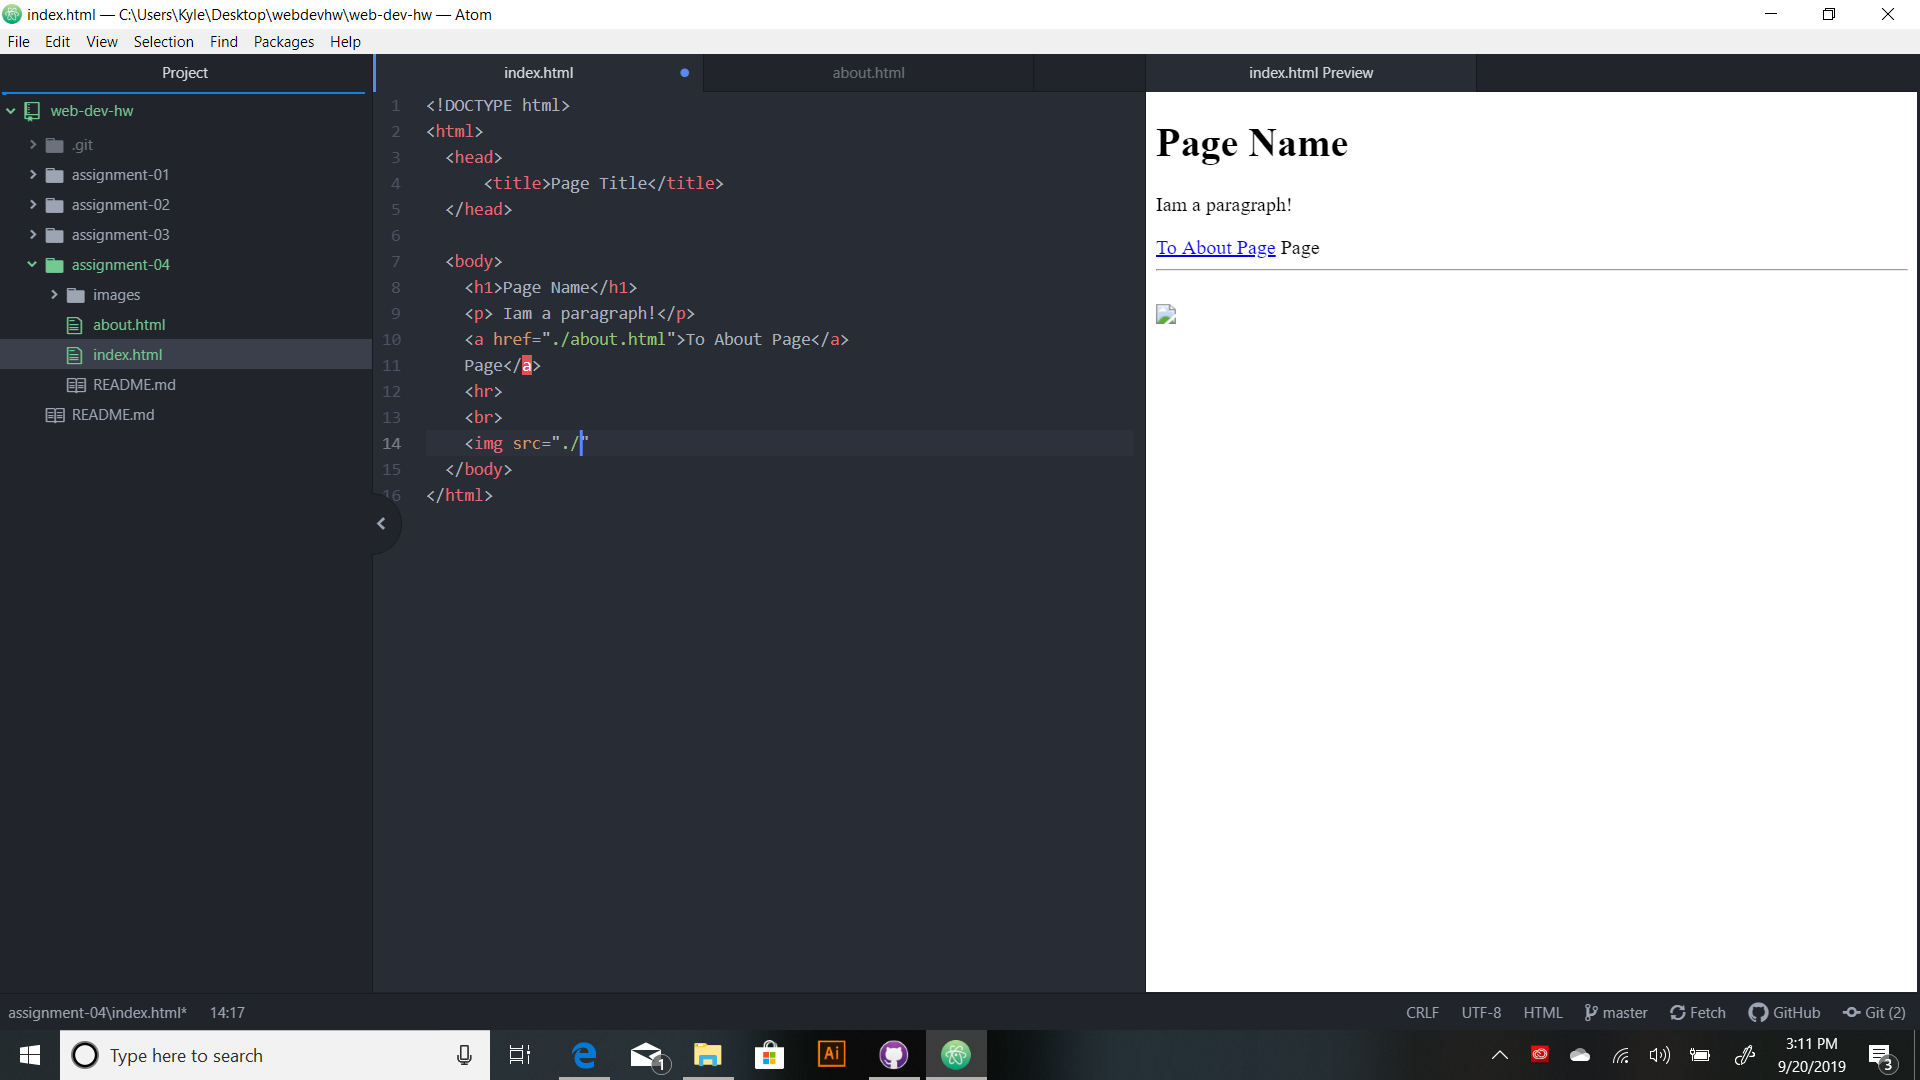
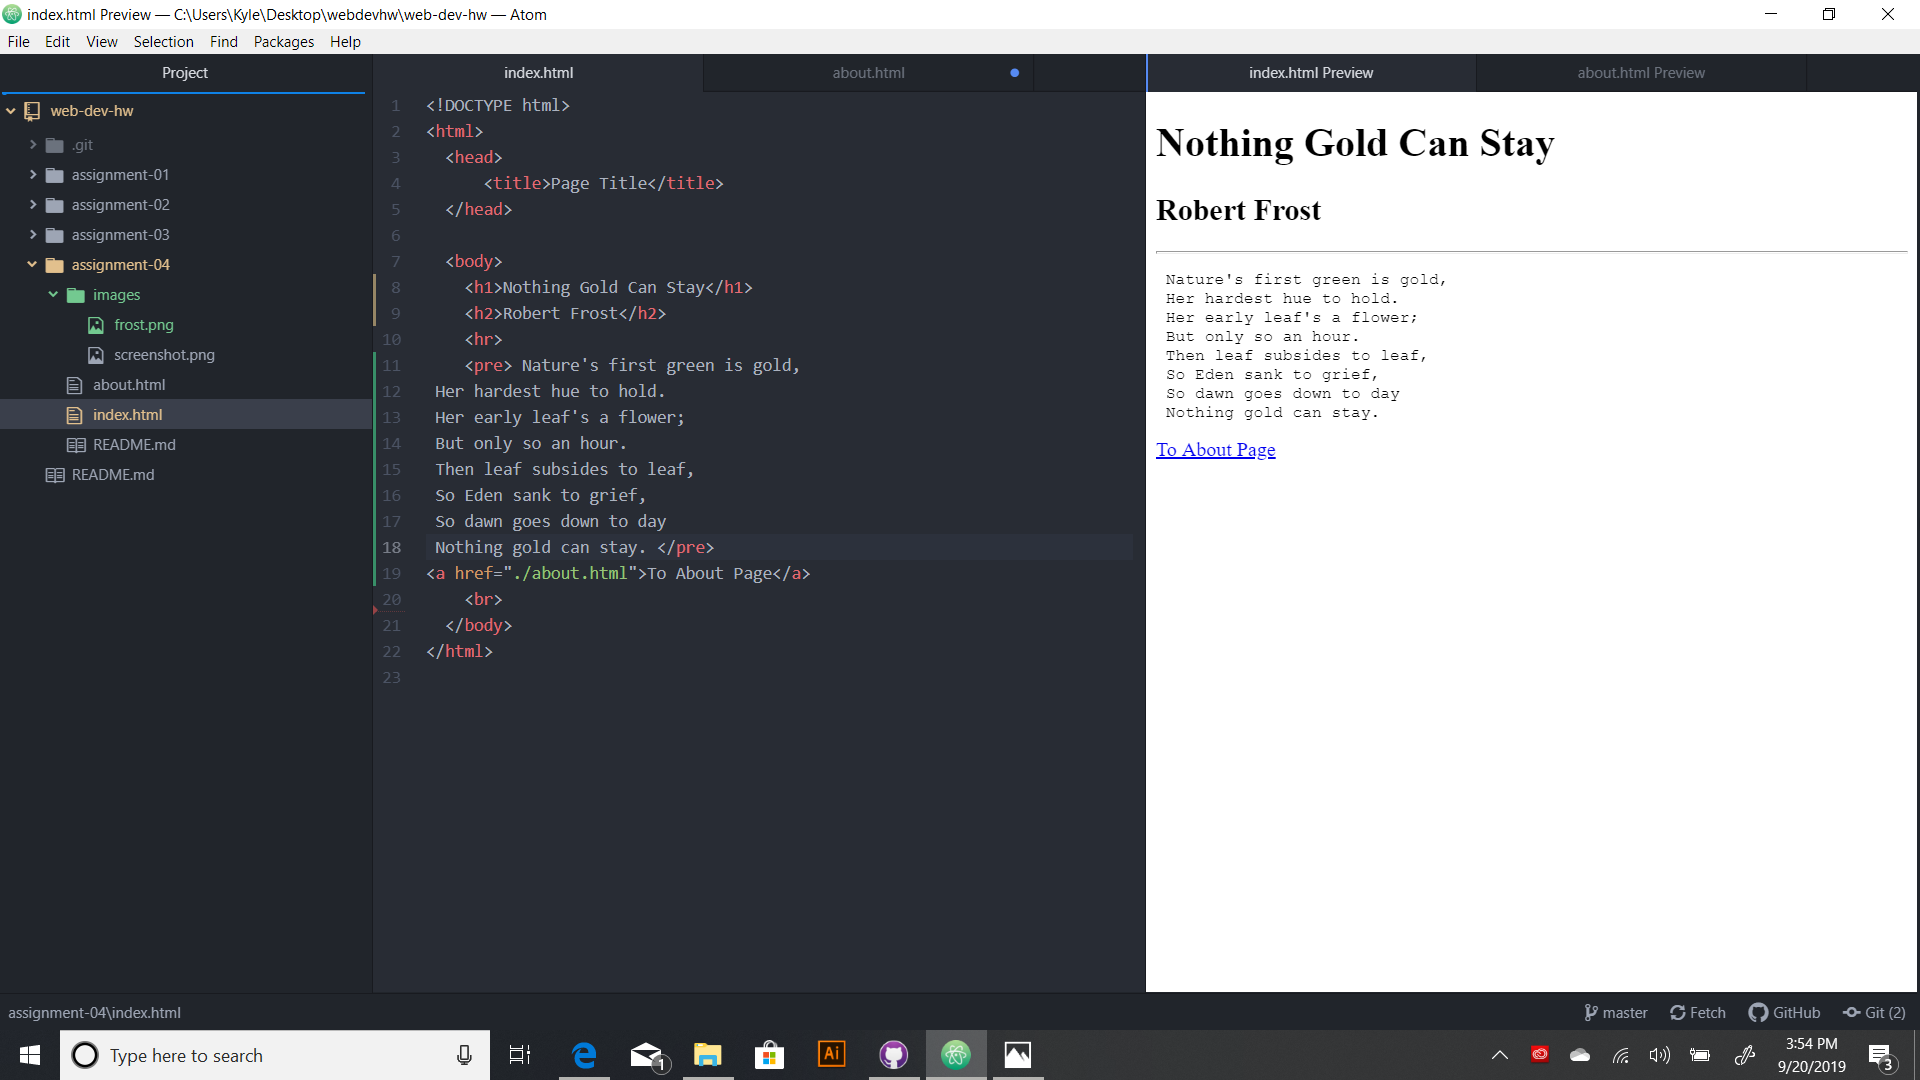
completed the rest

diff --git a/assignment-04/index.html b/assignment-04/index.html
@@ -5,12 +5,18 @@
   </head>
 
   <body>
-    <h1>Page Name</h1>
-    <p> I am a paragraph!</p>
-    <a href="./about.html">To About Page</a>
-    Page</a>
+    <h1>Nothing Gold Can Stay</h1>
+    <h2>Robert Frost</h2>
     <hr>
+    <pre> Nature's first green is gold,
+ Her hardest hue to hold.
+ Her early leaf's a flower;
+ But only so an hour.
+ Then leaf subsides to leaf,
+ So Eden sank to grief,
+ So dawn goes down to day
+ Nothing gold can stay. </pre>
+<a href="./about.html">To About Page</a>
     <br>
-    <img src="./images/screenshot.png" />
   </body>
 </html>

diff --git a/assignment-04/README.md b/assignment-04/README.md
@@ -1,2 +1,5 @@
 # Assignment 4
 ## Kyle Kredo
+
+1) I visited a site called The Ultimate Band List. It is from 1996 and the setup is pretty basic. There are a few graphics but other than that the site is really primitive. Not too much to see or catch attention. The type and fonts are all very basic too.
+2) From the GIT module I was able to learn alot and I find it very helpful. There are some things that are difficult and take me some time to figure out even with the module there, but overall i like it.
